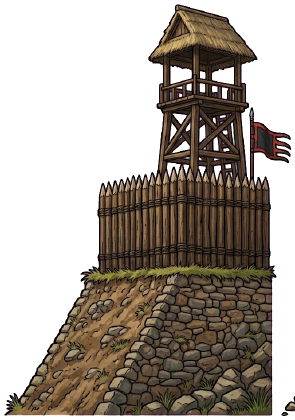
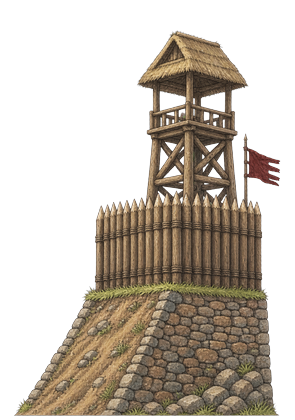
전장 성벽 두 장을 싸움터 그림결로 다시 — 손그림 수채 · 흙돌 둔덕 위 목책과 초가 망루 · 무너지고 그을린 판도 같은 대화에서 같은 자리로 (형 10-29: "성 이미지도 우리 전투판이 잘 어울리게 챗지피티로 다시 뽑아야겠다")
Claude-Session: https://claude.ai/code/session_01TRiuNAAA3EvyqPgGrjtJpv

diff --git a/docs/realm/ART-QUEUE.md b/docs/realm/ART-QUEUE.md
@@ -16,7 +16,7 @@
    - **event-romance** (연정 소문 · 지금은 혼례 그림 복사본 — 잔치 그림이었을 때 풍년 조짐과 같다고 형 지적) — 달빛 버드나무 강가, 왼쪽 젊은 사내 장수 · 오른쪽 예쁜 여장수가 평바위에 붙어 앉아 수줍게 눈을 피함 · 손이 닿을 듯 · 반딧불 · 멀리 버드나무 뒤에서 아낙 둘이 엿보며 수군댐 · 3:2
    - **event-wanderer-arrives-g** (쫓겨 온 사람이 사내일 때 · 지금은 여인 그림 복사본) — 지금 event-wanderer-arrives 와 같은 구도(목책 문 앞 흙길, 뒤에서 본 모습, 문루에 창든 이 둘, 솟대, 왼쪽 다랑논)인데 지친 사내 무사 · 상투에 천 띠 · 도롱이·봇짐 · 맥궁 · 3:2
 
-**★★★★ 맨 먼저 — 전장 성벽 두 장 (형 10-29: "성 이미지도 우리 전투판이 잘 어울리게 챗지피티로 다시 뽑아야겠다") — 자란 아이 얼굴보다 먼저**
+✔ **10-30 오전 둘 다 받아 덮어씀 (edu · 한 대화 · 챗지피티가 초록 대신 진짜 투명으로 줬다 · 굽기 scratchpad keywall.py — 두 장을 같은 상자로 잘라 바꿔 끼울 때 성이 안 움직인다 · 원본 assets_src/realm/fx/wall-*-gpt.png)** ~~**★★★★ 맨 먼저 — 전장 성벽 두 장 (형 10-29: "성 이미지도 우리 전투판이 잘 어울리게 챗지피티로 다시 뽑아야겠다") — 자란 아이 얼굴보다 먼저**~~
    - 지금 것: public/realm/fx/field/wall-whole.png · wall-breach.png (295×420 · 투명 · 흙돌 성벽 위 초가 망루 · 전장 왼쪽 아래 구석에 .wf-wall 로 붙고 scaleX(-1) 로 뒤집힘, battlefield.ts)
    - 챗지피티 한 대화: IMAGE 1 = 지금 wall-whole.png · IMAGE 2 = 형 폰 전장 캡처 public/KakaoTalk_20261029_214004208.jpg(커밋 금지) — 입력칸 + 쪽 input 에 file_upload 도구로(크롬 대화상자 금지) · "같은 구도·세로 420:가로 295 · 전장 그림결(손그림 수채 · 단청 없는 삼한 흙돌 성 · 초가 망루) · 일본·중국풍 금지 · 해 동그라미 금지 · 바탕 단색 #00ff00" → 같은 대화에서 무너지고 그을린 판 한 장
    - 초록 빼서 투명 png(가장자리 초록 번짐 제거) · 295×420 로 덮어쓰기 · 커밋 뒤 tools/retire-history.py
